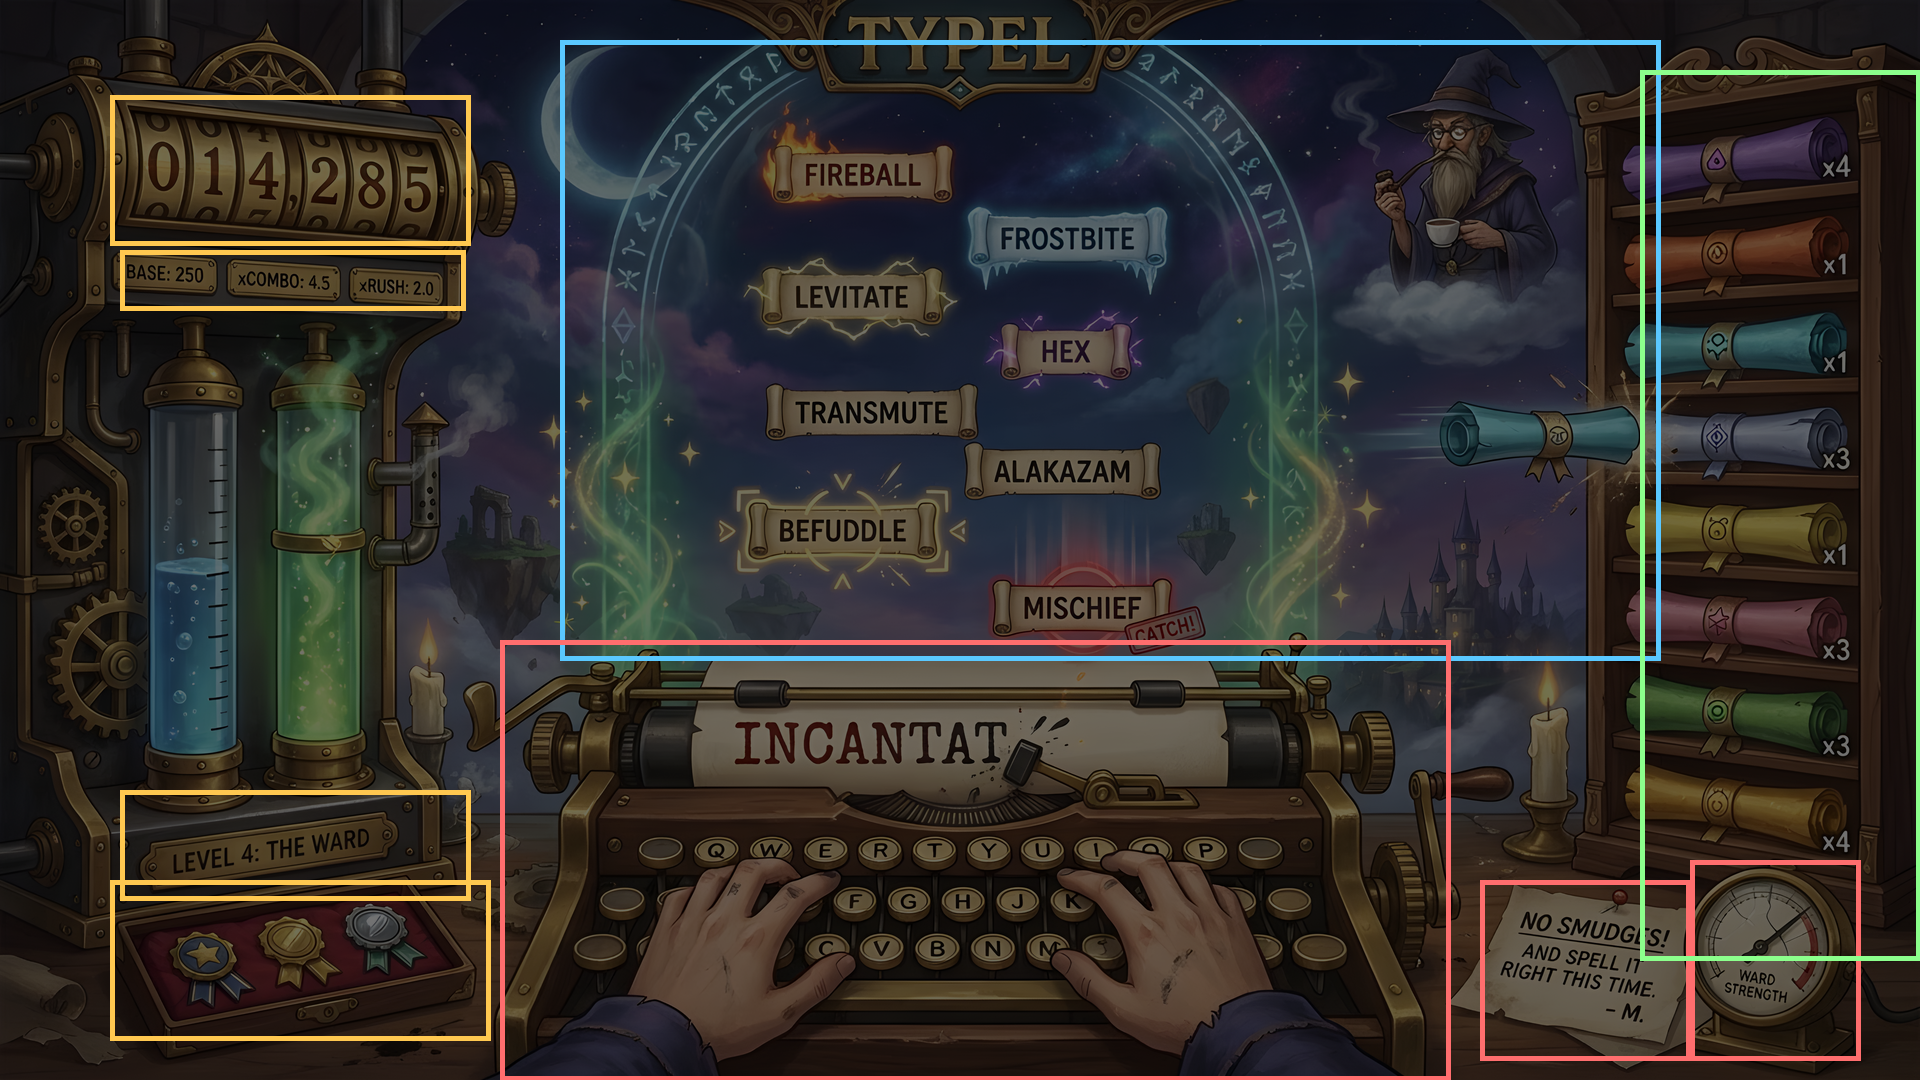
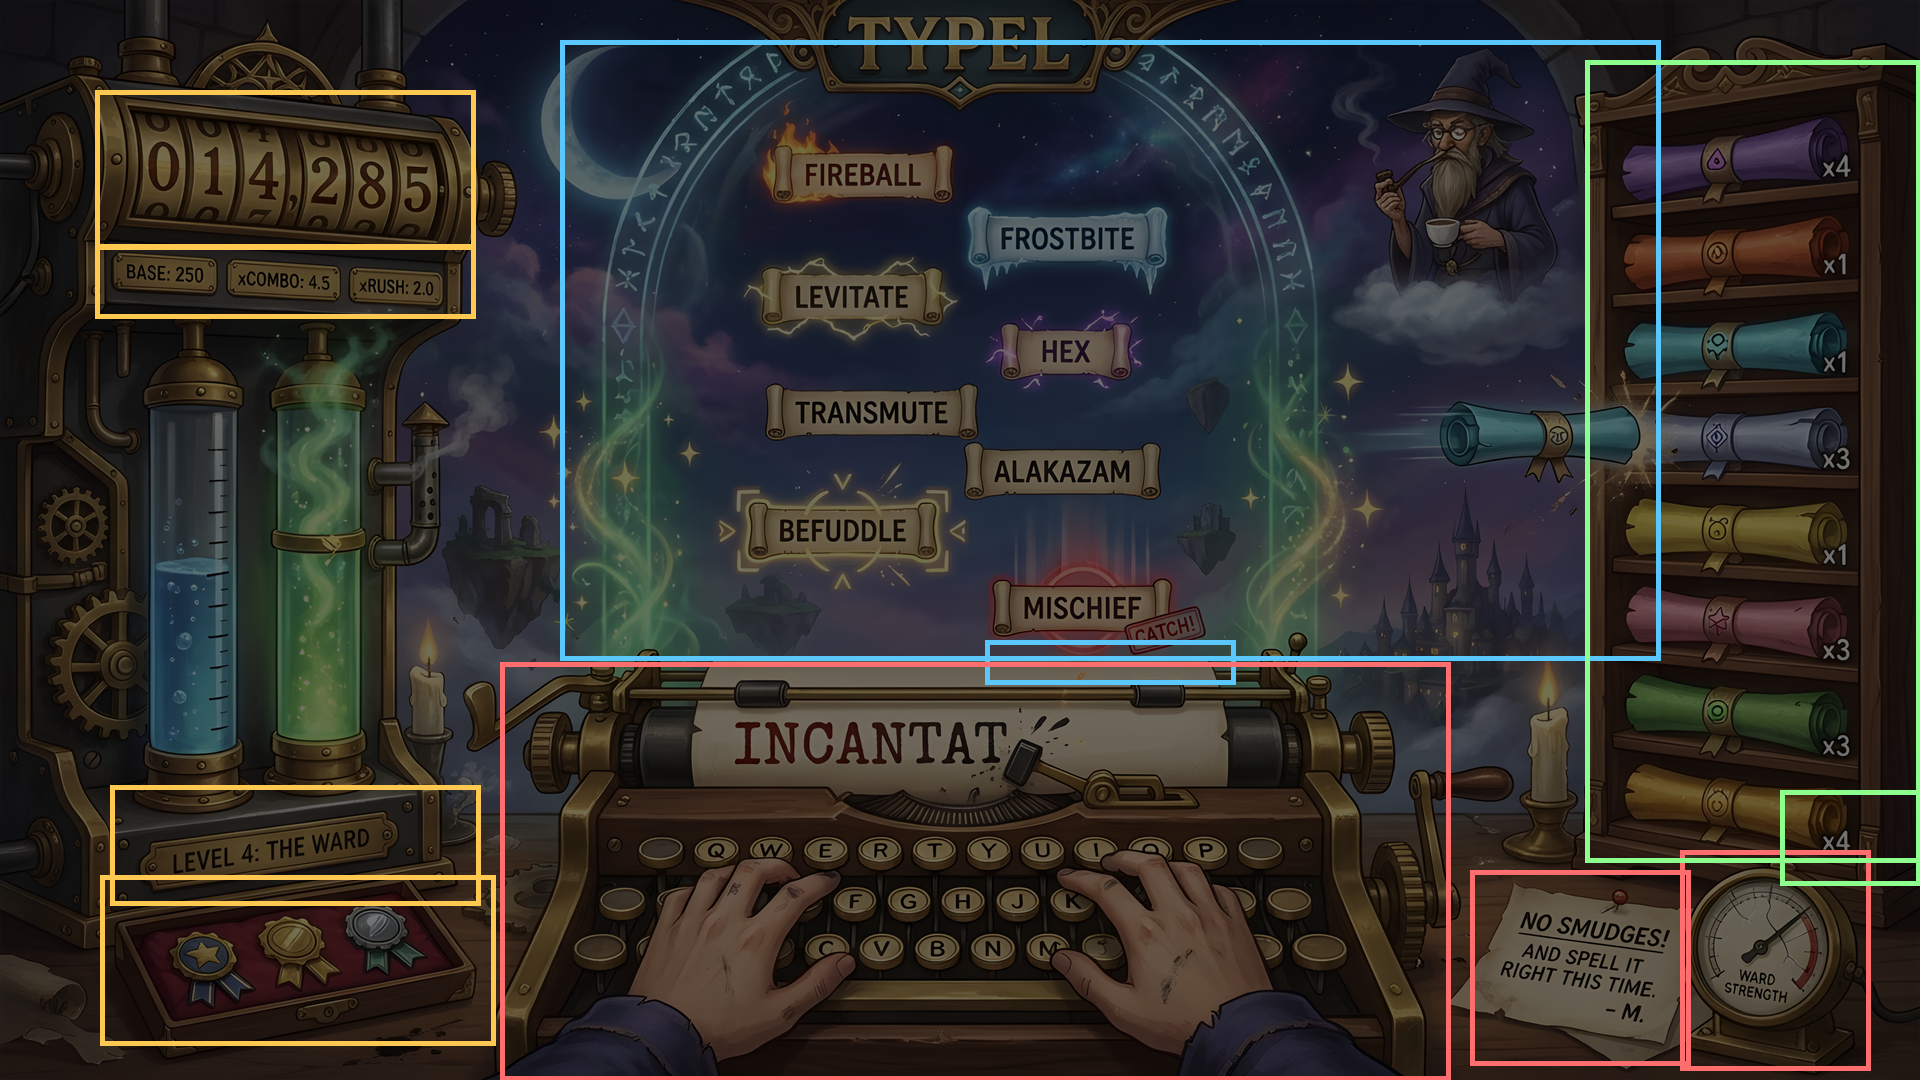
Batch 01 received: sources stored, edits checked, clean plate built for review
- assets-src/flow: owner's PLT-001 (a, b), PLT-002, PLT-003, PLT-004, SCR-001 originals
- plate-regions.json widened + build order; tools/assets/build_plate.py and
  plate-build.json rebuild the clean plate reproducibly (assets-src/work/PLT)
- manifest: batch 01 UNDER REVIEW; integration log entry 2
No game change; nothing integrated before owner approval.

Claude-Session: https://claude.ai/code/session_01JyMncqaXNbHwyza75pdKAD

diff --git a/tools/assets/build_plate.py b/tools/assets/build_plate.py
@@ -1,0 +1,49 @@
+#!/usr/bin/env python3
+"""
+Build the clean background plate from the approved region edits (D-094).
+
+    python3 tools/assets/build_plate.py docs/assets/plate-build.json OUT.png
+
+plate-build.json lists the chosen source file per region, e.g.
+  {"base": "assets-src/reference/REF-001_typel-concept-primary_v1_1920x1080.png",
+   "edits": {"PLT-001": "assets-src/flow/PLT-001/PLT-001_clean-sky_v1_a.png", ...}}
+Regions and their order come from docs/assets/plate-regions.json. Every edit is
+aligned to the base first (tools/assets/prep.py align), then composited.
+"""
+import json, subprocess, sys, tempfile
+from pathlib import Path
+
+ROOT = Path(__file__).resolve().parents[1].parent
+PREP = ROOT / 'tools/assets/prep.py'
+
+
+def run(*a):
+    r = subprocess.run([sys.executable, str(PREP), *map(str, a)], capture_output=True, text=True)
+    if r.returncode:
+        sys.exit(r.stderr)
+    return r.stdout
+
+
+def main():
+    cfg = json.loads(Path(sys.argv[1]).read_text())
+    out = Path(sys.argv[2])
+    regions = json.loads((ROOT / 'docs/assets/plate-regions.json').read_text())
+    tmp = Path(tempfile.mkdtemp())
+    cur = ROOT / cfg['base']
+    for i, name in enumerate(regions['build_order']):
+        src = cfg['edits'].get(name)
+        if not src:
+            print(f'{name}: no edit chosen, keeping base')
+            continue
+        aligned = tmp / f'{name}_aligned.png'
+        print(name, run('align', ROOT / src, ROOT / cfg['base'], aligned).splitlines()[0])
+        nxt = tmp / f'step{i}.png'
+        run('composite', cur, aligned, nxt, '--name', name, '--feather', str(cfg.get('feather', 24)))
+        cur = nxt
+    out.parent.mkdir(parents=True, exist_ok=True)
+    Path(out).write_bytes(Path(cur).read_bytes())
+    print('wrote', out)
+
+
+if __name__ == '__main__':
+    main()

diff --git a/docs/assets/ASSET_MANIFEST.md b/docs/assets/ASSET_MANIFEST.md
@@ -12,15 +12,15 @@ Lifecycle: PLANNED → REQUESTED → GENERATED → UNDER REVIEW → APPROVED →
 
 ## Summary
 
-REQUESTED: 5 · PLANNED: 13
+UNDER REVIEW: 5 · PLANNED: 13
 
 | ID | Name | Batch | Status | Category | Format | Size | Transparency / loop |
 |---|---|---|---|---|---|---|---|
-| PLT-001 | Clean sky plate region | 1 | **REQUESTED** | visual/plate-edit | PNG 16:9 edit of REF-001 | used at 1920×1080, region PLT-001 | opaque (region composite) |
-| PLT-002 | Clean score-engine region | 1 | **REQUESTED** | visual/plate-edit | PNG 16:9 edit of REF-001 | region PLT-002 | opaque (region composite) |
-| PLT-003 | Clean typewriter and desk region | 1 | **REQUESTED** | visual/plate-edit | PNG 16:9 edit of REF-001 | region PLT-003 | opaque (region composite) |
-| PLT-004 | Empty shelf region | 1 | **REQUESTED** | visual/plate-edit | PNG 16:9 edit of REF-001 | region PLT-004 | opaque (region composite) |
-| SCR-001 | Plain word scroll (blank) | 1 | **REQUESTED** | visual/gameplay-target | PNG 16:9 on #FF00FF | ships 229×67 (+2×), capL/capR re-measured | alpha (chroma key); 3-slice |
+| PLT-001 | Clean sky plate region | 1 | **UNDER REVIEW** | visual/plate-edit | PNG 16:9 edit of REF-001 | used at 1920×1080, region PLT-001 | opaque (region composite) |
+| PLT-002 | Clean score-engine region | 1 | **UNDER REVIEW** | visual/plate-edit | PNG 16:9 edit of REF-001 | region PLT-002 | opaque (region composite) |
+| PLT-003 | Clean typewriter and desk region | 1 | **UNDER REVIEW** | visual/plate-edit | PNG 16:9 edit of REF-001 | region PLT-003 | opaque (region composite) |
+| PLT-004 | Empty shelf region | 1 | **UNDER REVIEW** | visual/plate-edit | PNG 16:9 edit of REF-001 | region PLT-004 | opaque (region composite) |
+| SCR-001 | Plain word scroll (blank) | 1 | **UNDER REVIEW** | visual/gameplay-target | PNG 16:9 on #FF00FF | ships 229×67 (+2×), capL/capR re-measured | alpha (chroma key); 3-slice |
 | SCR-002 | Elemental spell scrolls ×8 | 2 | **PLANNED** | visual/gameplay-target | PNG sheet on #FF00FF | matches SCR-001 | alpha |
 | SCR-003 | CATCH! stamp | 2 | **PLANNED** | visual/feedback | PNG on #FF00FF | ~123×60 | alpha |
 | RCK-002 | Shelf scrolls ×8 (isolated) | 2 | **PLANNED** | visual/hud-part | PNG sheet on #FF00FF | 257×80–91 each | alpha; sheet split |
@@ -44,11 +44,11 @@ REQUESTED: 5 · PLANNED: 13
 - **Required format:** PNG 16:9 edit of REF-001 · **Dimensions/duration:** used at 1920×1080, region PLT-001 · **Transparency/looping:** opaque (region composite)
 - **Source reference:** REF-001
 - **Prompt:** v1 in `docs/assets/requests/BATCH-01_clean-plate-and-scroll.md` (TYPEL SHARED STYLE v1)
-- **Status:** **REQUESTED** — history: 2026-11-21 REQUESTED
+- **Status:** **UNDER REVIEW** — history: 2026-11-21 REQUESTED; 2026-11-21 GENERATED (owner upload 2026-11-21); 2026-11-21 UNDER REVIEW
 - **Approved source file:** —
 - **Final integrated path:** `public/assets/typel/keyart/plate.jpg (+ front.webp re-sliced)`
 - **Integration notes:** align → diff → composite region onto plate; re-run tools/keyart slicing on the clean plate.
-- **Test status:** not tested
+- **Test status:** checked by Claude: see INTEGRATION_LOG entry 2
 - **Known limitations:** Ghost outlines; missed items need a second pass.
 
 ### PLT-002 · Clean score-engine region
@@ -58,11 +58,11 @@ REQUESTED: 5 · PLANNED: 13
 - **Required format:** PNG 16:9 edit of REF-001 · **Dimensions/duration:** region PLT-002 · **Transparency/looping:** opaque (region composite)
 - **Source reference:** REF-001
 - **Prompt:** v1 in `docs/assets/requests/BATCH-01_clean-plate-and-scroll.md` (TYPEL SHARED STYLE v1)
-- **Status:** **REQUESTED** — history: 2026-11-21 REQUESTED
+- **Status:** **UNDER REVIEW** — history: 2026-11-21 REQUESTED; 2026-11-21 GENERATED (owner upload 2026-11-21); 2026-11-21 UNDER REVIEW
 - **Approved source file:** —
 - **Final integrated path:** `public/assets/typel/keyart/plate.jpg / front.webp`
 - **Integration notes:** As PLT-001.
-- **Test status:** not tested
+- **Test status:** checked by Claude: see INTEGRATION_LOG entry 2
 - **Known limitations:** Model may rewrite text instead of removing it.
 
 ### PLT-003 · Clean typewriter and desk region
@@ -72,11 +72,11 @@ REQUESTED: 5 · PLANNED: 13
 - **Required format:** PNG 16:9 edit of REF-001 · **Dimensions/duration:** region PLT-003 · **Transparency/looping:** opaque (region composite)
 - **Source reference:** REF-001
 - **Prompt:** v1 in `docs/assets/requests/BATCH-01_clean-plate-and-scroll.md` (TYPEL SHARED STYLE v1)
-- **Status:** **REQUESTED** — history: 2026-11-21 REQUESTED
+- **Status:** **UNDER REVIEW** — history: 2026-11-21 REQUESTED; 2026-11-21 GENERATED (owner upload 2026-11-21); 2026-11-21 UNDER REVIEW
 - **Approved source file:** —
 - **Final integrated path:** `public/assets/typel/keyart/front.webp`
 - **Integration notes:** Key letters become live text on blank caps (rendering change at integration). Paper top edge must not move (Ward line).
-- **Test status:** not tested
+- **Test status:** checked by Claude: see INTEGRATION_LOG entry 2
 - **Known limitations:** Invented keys under the hands may misalign.
 
 ### PLT-004 · Empty shelf region
@@ -86,11 +86,11 @@ REQUESTED: 5 · PLANNED: 13
 - **Required format:** PNG 16:9 edit of REF-001 · **Dimensions/duration:** region PLT-004 · **Transparency/looping:** opaque (region composite)
 - **Source reference:** REF-001
 - **Prompt:** v1 in `docs/assets/requests/BATCH-01_clean-plate-and-scroll.md` (TYPEL SHARED STYLE v1)
-- **Status:** **REQUESTED** — history: 2026-11-21 REQUESTED
+- **Status:** **UNDER REVIEW** — history: 2026-11-21 REQUESTED; 2026-11-21 GENERATED (owner upload 2026-11-21); 2026-11-21 UNDER REVIEW
 - **Approved source file:** —
 - **Final integrated path:** `public/assets/typel/keyart/plate.jpg / front.webp`
 - **Integration notes:** As PLT-001.
-- **Test status:** not tested
+- **Test status:** checked by Claude: see INTEGRATION_LOG entry 2
 - **Known limitations:** Flying-scroll remnants on shelf 4.
 
 ### SCR-001 · Plain word scroll (blank)
@@ -100,11 +100,11 @@ REQUESTED: 5 · PLANNED: 13
 - **Required format:** PNG 16:9 on #FF00FF · **Dimensions/duration:** ships 229×67 (+2×), capL/capR re-measured · **Transparency/looping:** alpha (chroma key); 3-slice
 - **Source reference:** REF-001-C3 (TRANSMUTE/ALAKAZAM)
 - **Prompt:** v1 in `docs/assets/requests/BATCH-01_clean-plate-and-scroll.md` (TYPEL SHARED STYLE v1)
-- **Status:** **REQUESTED** — history: 2026-11-21 REQUESTED
+- **Status:** **UNDER REVIEW** — history: 2026-11-21 REQUESTED; 2026-11-21 GENERATED (owner upload 2026-11-21); 2026-11-21 UNDER REVIEW
 - **Approved source file:** —
 - **Final integrated path:** `public/assets/typel/keyart/scroll_plain.png`
 - **Integration notes:** Replaces the cut-from-painting scroll; keyart.json capL/capR updated.
-- **Test status:** not tested
+- **Test status:** checked by Claude: see INTEGRATION_LOG entry 2
 - **Known limitations:** May come back with a word or curl.
 
 ### SCR-002 · Elemental spell scrolls ×8

diff --git a/docs/assets/INTEGRATION_LOG.md b/docs/assets/INTEGRATION_LOG.md
@@ -19,3 +19,29 @@ _Append-only. Records which assets were added, what code changed, which systems 
 - Guides rebuilt from `keyart.json`: `G-000` play layout, `G-PLT` edit regions, `G-SCR-001` scroll shape.
 - **Tested:** tools as above; `manifest.py check`. `npm run check` is not runnable in Claude's workspace (package installs are blocked); GitHub Actions validates the push.
 - **Deployed:** no.
+
+## 2026-11-21 · Entry 2 — Batch 01 received and checked (not yet approved, not integrated)
+
+- **Received** (owner upload, no approval stated yet → UNDER REVIEW): PLT-001 ×2 candidates (a, b), PLT-002, PLT-003, PLT-004, SCR-001. All 1344×756 RGB. Originals stored untouched in `assets-src/flow/<ID>/`.
+- **Alignment:** every edit came back pixel-registered to REF-001 (scale 1.000, shift 0.0 px, ≥1483/1500 inliers, residual ≤ 0.01 px).
+- **Containment** (pixels changed by > 24 levels; at 1344×756 against REF-001):
+  - inside its own area, 21–32 %;
+  - outside it, 1.1–2.2 %, which is resampling noise plus the flying scroll that PLT-004 also removed.
+- **Content:**
+  - PLT-001 a and b differ by under 0.1 %; **a** chosen. Sky calm, all eight scrolls, the flying scroll and the wizard removed, no ghosts.
+  - PLT-002: drums, plates and level plate blank. Tray hollows are medal-shaped (star-edged), not round; acceptable.
+  - PLT-003:
+    - paper blank, hammer, hands and sleeves gone, all keys blank, note blank, needle gone, paper top edge unchanged (Ward line intact);
+    - the invented keyboard has 3 rows plus a space bar, with the live key positions sitting on keys (A row about 10–15 px left of centre; re-measure at integration).
+  - PLT-004: eight empty compartments within about 5 px of the rack layers' positions.
+- **My region map was too tight.** The first composite showed edge leftovers: a flame corner, the CATCH! stamp, shelf-scroll ends, "BA" on the plate, and a faint ×4. Fixed in `plate-regions.json`:
+  - widened areas;
+  - a build order of PLT-003, then PLT-001, then PLT-004, then PLT-002;
+  - PLT-004 stops above the gauge;
+  - a strip of PLT-001 covers the stamp's lower edge over the paper.
+  - New `tools/assets/build_plate.py` + `docs/assets/plate-build.json` rebuild the plate reproducibly: `assets-src/work/PLT/clean-plate_v1_1920.png`, checked visually region by region, no leftovers found.
+- **SCR-001:**
+  - Flat magenta (#fe01fc). Keyed with despill: 0 % magenta-tinted opaque pixels; trimmed to 1018×260; clean on dark and light.
+  - Middle parchment `#f0d9af` (std 1.4, very even) is lighter than the painting's scrolls (`#d4bb95`). A toned variant matching the painting was prepared for comparison (`assets-src/work/SCR-001_compare_v1.png`).
+- **Resolution note:** the edits are 1344×756, so the clean areas are upscaled 1.43× to 1920×1080. They are a little softer than the D-093 layers cut from the 5376×3024 original, but sharper than the filled patches they replace. A 2K/4K download of the same edits would drop straight in (same geometry).
+- **Game:** unchanged. Nothing integrated; waiting for owner approval.
